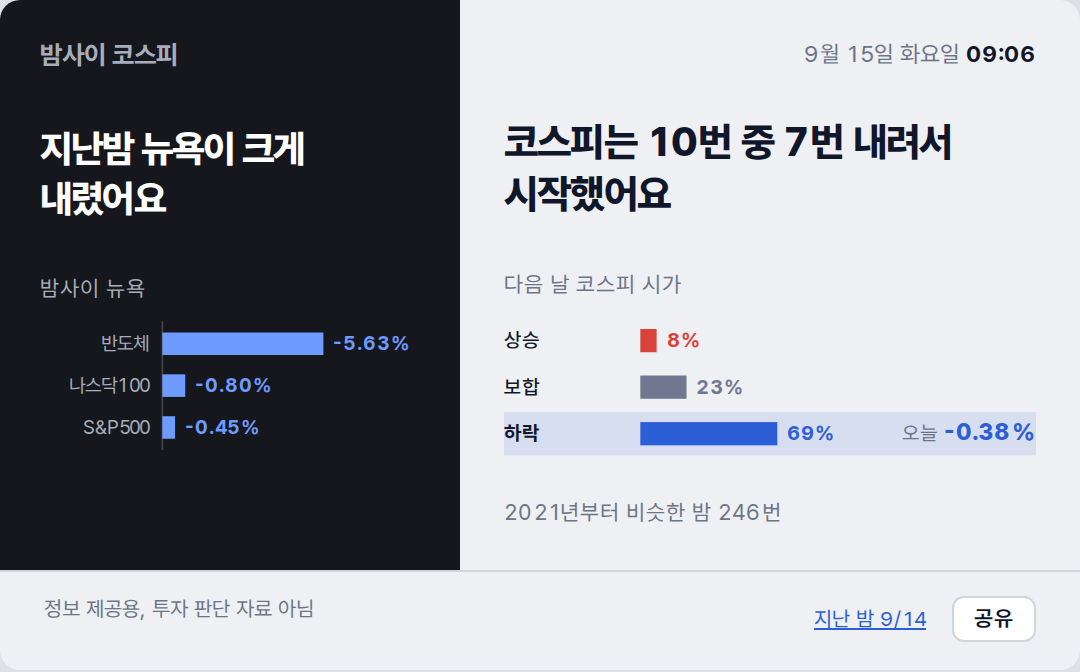
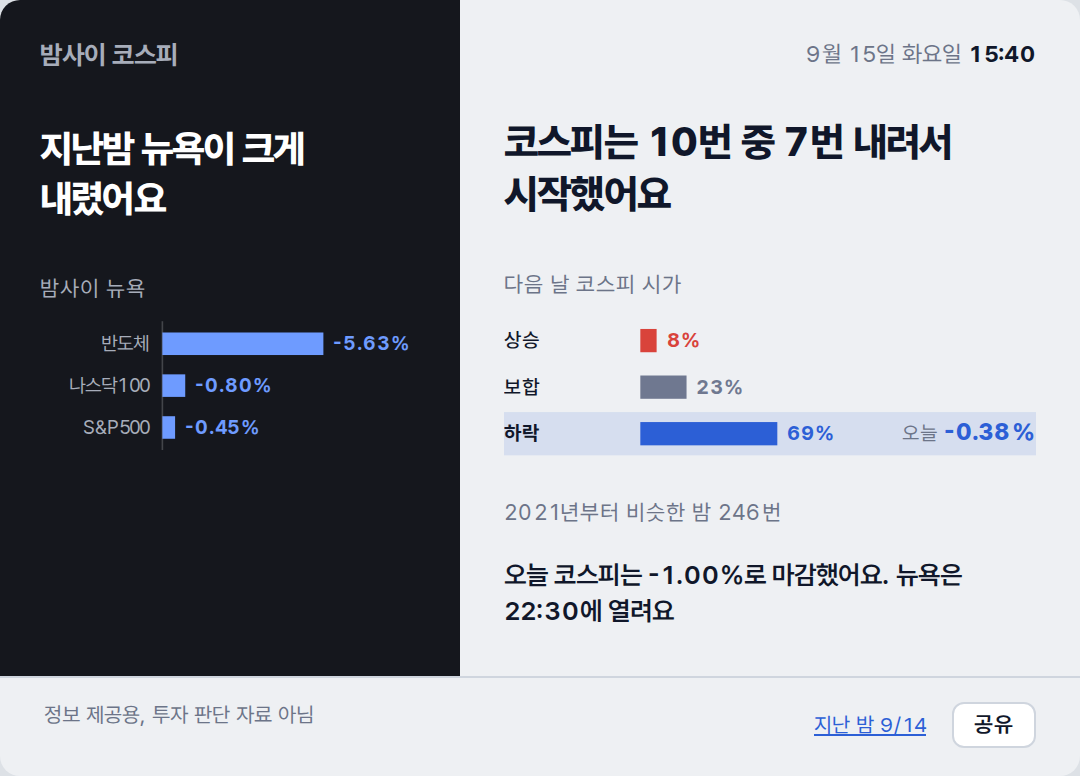
deploy: 75cc4f4932e6d10a8b135168aac73cace504a461

diff --git a/2026-09-15/index.html b/2026-09-15/index.html
@@ -38,7 +38,7 @@ footer a{color:#2C5FD6}
 <rect x="76" y="61" width="7.9" height="14" fill="var(--down)"/>
 <text x="89.9" y="72" fill="var(--down)" font-weight="700">-0.45%</text>
 </svg></section>
-<section class="day"><p class="stamp">9월 15일 화요일 <b>09:06</b></p><p class="claim">코스피는 10번 중 7번 내려서 시작했어요</p><p class="lab">다음 날 코스피 시가</p><svg viewBox="0 0 320 100" xmlns="http://www.w3.org/2000/svg" font-family="var(--sans)" font-size="12">
+<section class="day"><p class="stamp">9월 15일 화요일 <b>15:40</b></p><p class="claim">코스피는 10번 중 7번 내려서 시작했어요</p><p class="lab">다음 날 코스피 시가</p><svg viewBox="0 0 320 100" xmlns="http://www.w3.org/2000/svg" font-family="var(--sans)" font-size="12">
 <text x="0" y="20" fill="var(--ink)" font-weight="500">상승</text>
 <rect x="82" y="9" width="9.8" height="14" fill="var(--up)"/>
 <text x="97.8" y="20" fill="var(--up)" font-weight="700">8%</text>
@@ -50,7 +50,7 @@ footer a{color:#2C5FD6}
 <rect x="82" y="65" width="82.4" height="14" fill="var(--down)"/>
 <text x="170.4" y="76" fill="var(--down)" font-weight="700">69%</text>
 <text x="320" y="76" text-anchor="end" fill="var(--ink)"><tspan fill="var(--muted)">오늘 </tspan><tspan font-weight="800" font-size="14" fill="var(--down)">-0.38%</tspan></text>
-</svg><p class="cap">2021년부터 비슷한 밤 246번</p></section>
+</svg><p class="cap">2021년부터 비슷한 밤 246번</p><p class="tail">오늘 코스피는 -1.00%로 마감했어요. 뉴욕은 22:30에 열려요</p></section>
 <footer><span>정보 제공용, 투자 판단 자료 아님</span><span style="white-space:nowrap"><a href="../2026-09-14/">지난 밤 9/14</a> <button class="share" type="button">공유</button></span></footer>
 <script>
 /* 공유: Web Share가 있으면 시스템 공유 시트, 없으면 링크 복사. 링크는 이 날짜 페이지(OG 카드 붙음) */

diff --git a/index.html b/index.html
@@ -38,7 +38,7 @@ footer a{color:#2C5FD6}
 <rect x="76" y="61" width="7.9" height="14" fill="var(--down)"/>
 <text x="89.9" y="72" fill="var(--down)" font-weight="700">-0.45%</text>
 </svg></section>
-<section class="day"><p class="stamp">9월 15일 화요일 <b>09:06</b></p><p class="claim">코스피는 10번 중 7번 내려서 시작했어요</p><p class="lab">다음 날 코스피 시가</p><svg viewBox="0 0 320 100" xmlns="http://www.w3.org/2000/svg" font-family="var(--sans)" font-size="12">
+<section class="day"><p class="stamp">9월 15일 화요일 <b>15:40</b></p><p class="claim">코스피는 10번 중 7번 내려서 시작했어요</p><p class="lab">다음 날 코스피 시가</p><svg viewBox="0 0 320 100" xmlns="http://www.w3.org/2000/svg" font-family="var(--sans)" font-size="12">
 <text x="0" y="20" fill="var(--ink)" font-weight="500">상승</text>
 <rect x="82" y="9" width="9.8" height="14" fill="var(--up)"/>
 <text x="97.8" y="20" fill="var(--up)" font-weight="700">8%</text>
@@ -50,7 +50,7 @@ footer a{color:#2C5FD6}
 <rect x="82" y="65" width="82.4" height="14" fill="var(--down)"/>
 <text x="170.4" y="76" fill="var(--down)" font-weight="700">69%</text>
 <text x="320" y="76" text-anchor="end" fill="var(--ink)"><tspan fill="var(--muted)">오늘 </tspan><tspan font-weight="800" font-size="14" fill="var(--down)">-0.38%</tspan></text>
-</svg><p class="cap">2021년부터 비슷한 밤 246번</p></section>
+</svg><p class="cap">2021년부터 비슷한 밤 246번</p><p class="tail">오늘 코스피는 -1.00%로 마감했어요. 뉴욕은 22:30에 열려요</p></section>
 <footer><span>정보 제공용, 투자 판단 자료 아님</span><span style="white-space:nowrap"><a href="./2026-09-14/">지난 밤 9/14</a> <button class="share" type="button">공유</button></span></footer>
 <script>
 /* 공유: Web Share가 있으면 시스템 공유 시트, 없으면 링크 복사. 링크는 이 날짜 페이지(OG 카드 붙음) */
